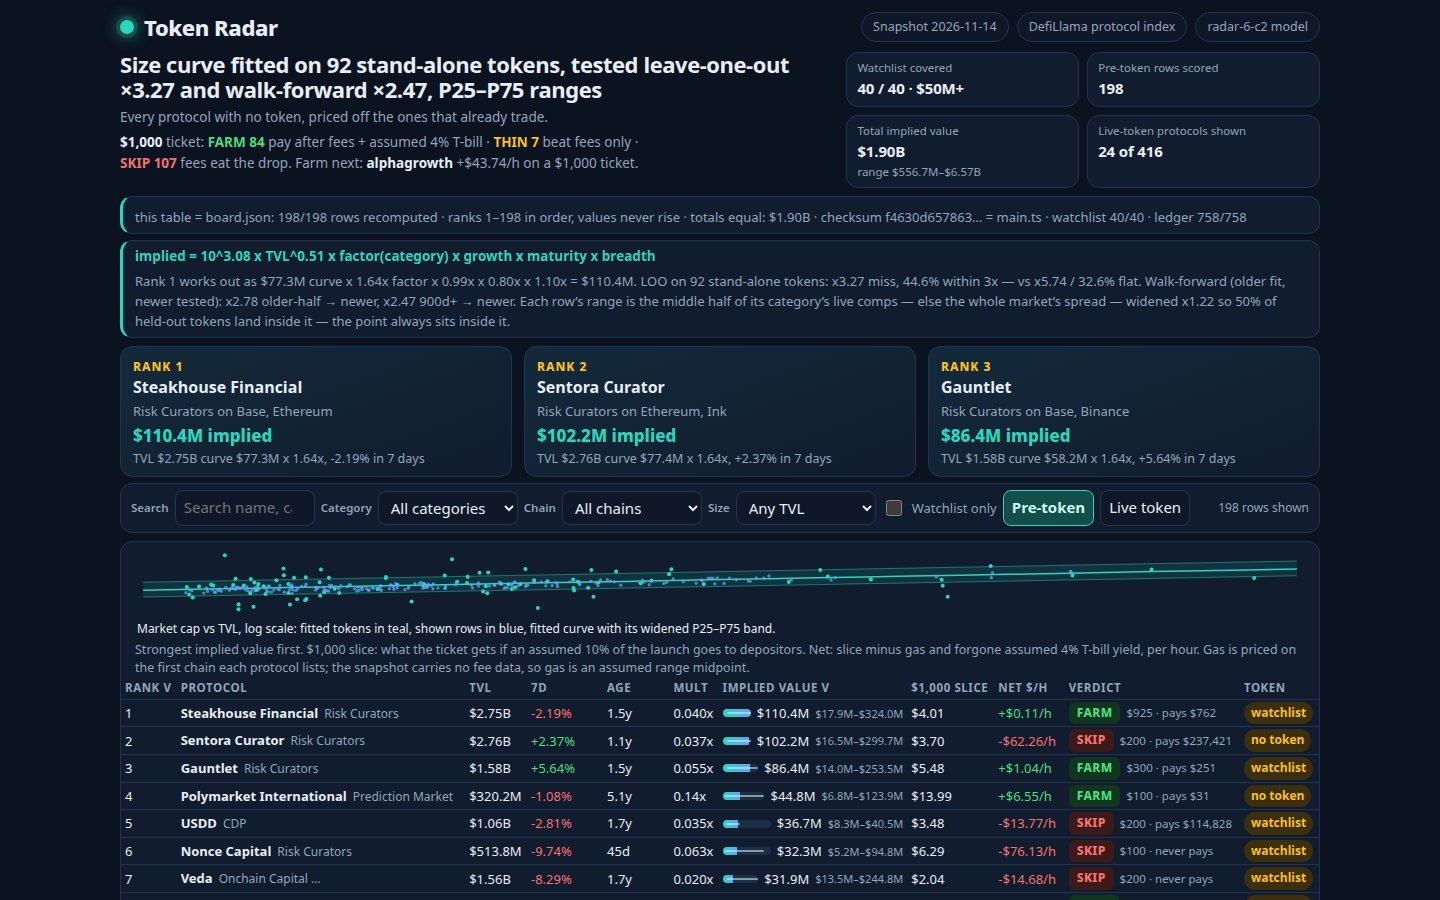
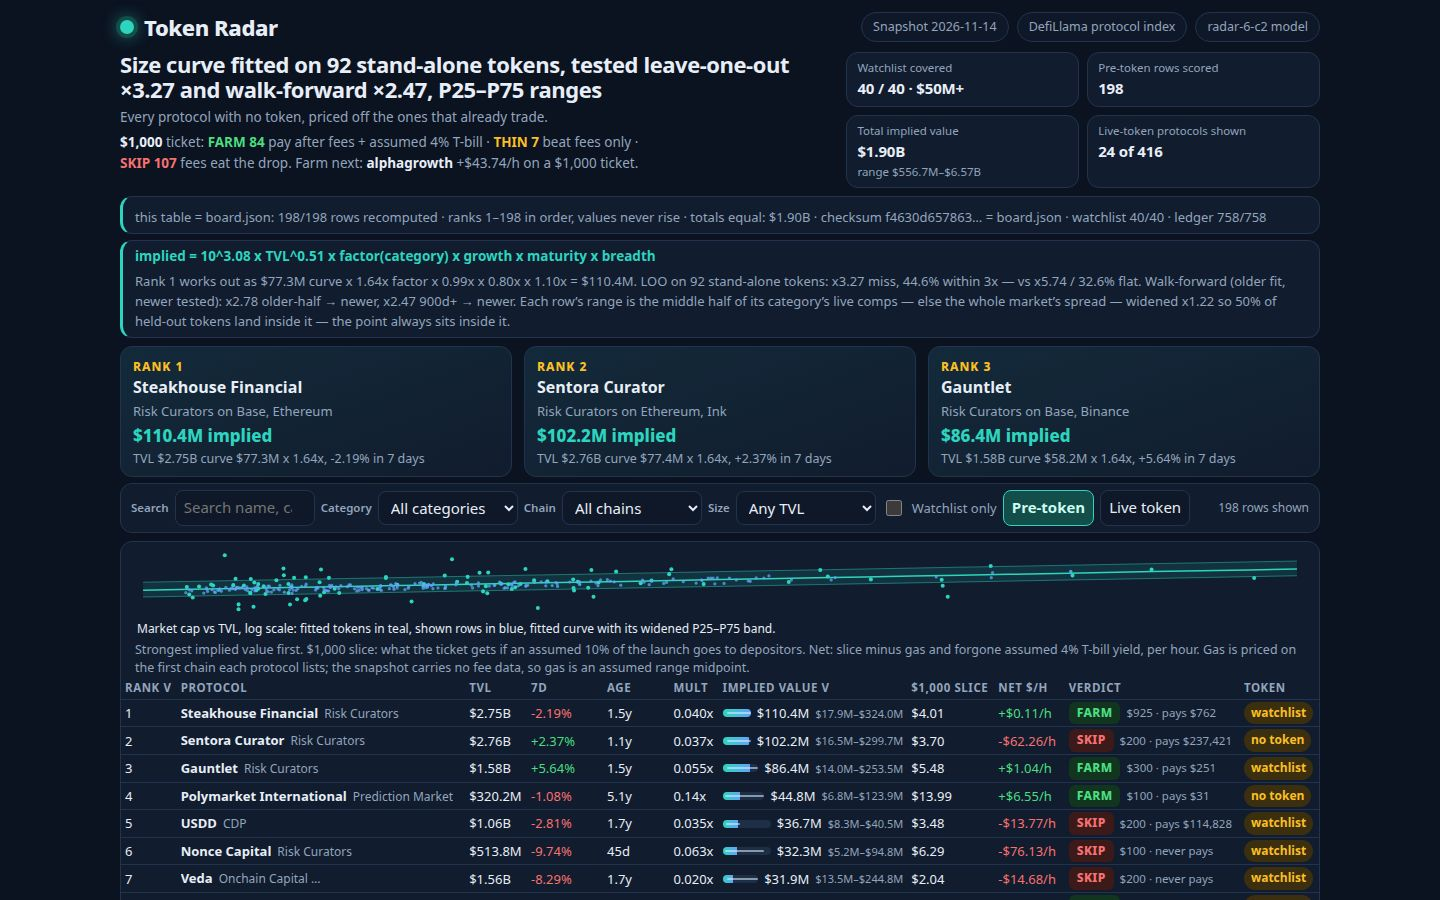
slot6: integrity strip checksum label = board.json (red-team F4)
board_checksum is the sha256 of the board.json bytes (main.ts:57-60),
but the strip printed '= main.ts'. Label only; board.json untouched
(sha256 still f4630d65...beb1). Dossier text 65,482 bytes, under the
65,536 cap. Cover + filtered screenshots retaken; detail shot kept
(strip hidden behind the modal).

Changed region(s): [[0.6875, 0.2178, 0.875, 0.2489]]

diff --git a/dashboard/app.js b/dashboard/app.js
@@ -295,7 +295,7 @@
     var setTotal = setAsideTotal(led), accounted = (led.ranked || 0) + (led.live_token || 0) + setTotal;
     var totals = sum === DATA.total_implied_usd ? 'totals equal: ' + fmtUsd(sum) : 'totals MISMATCH: rows sum ' + fmtUsd(sum) + ' vs ' + fmtUsd(DATA.total_implied_usd);
     var text = 'this table = board.json: ' + ok + '/' + n + ' rows recomputed · ranks 1–' + n + (ordered ? ' in order, values never rise' : ' — ORDER BREAKS') + ' · ' + totals
-      + (DATA.board_checksum ? ' · checksum ' + DATA.board_checksum.slice(0, 12) + '… = main.ts' : '')
+      + (DATA.board_checksum ? ' · checksum ' + DATA.board_checksum.slice(0, 12) + '… = board.json' : '')
       + ' · watchlist ' + watch + '/' + DATA.watchlist_size + ' · ledger ' + accounted + '/' + led.total;
     return el('section', { class: 'formula-bar', 'aria-label': 'Integrity strip' },
       el('p', { text: text })
